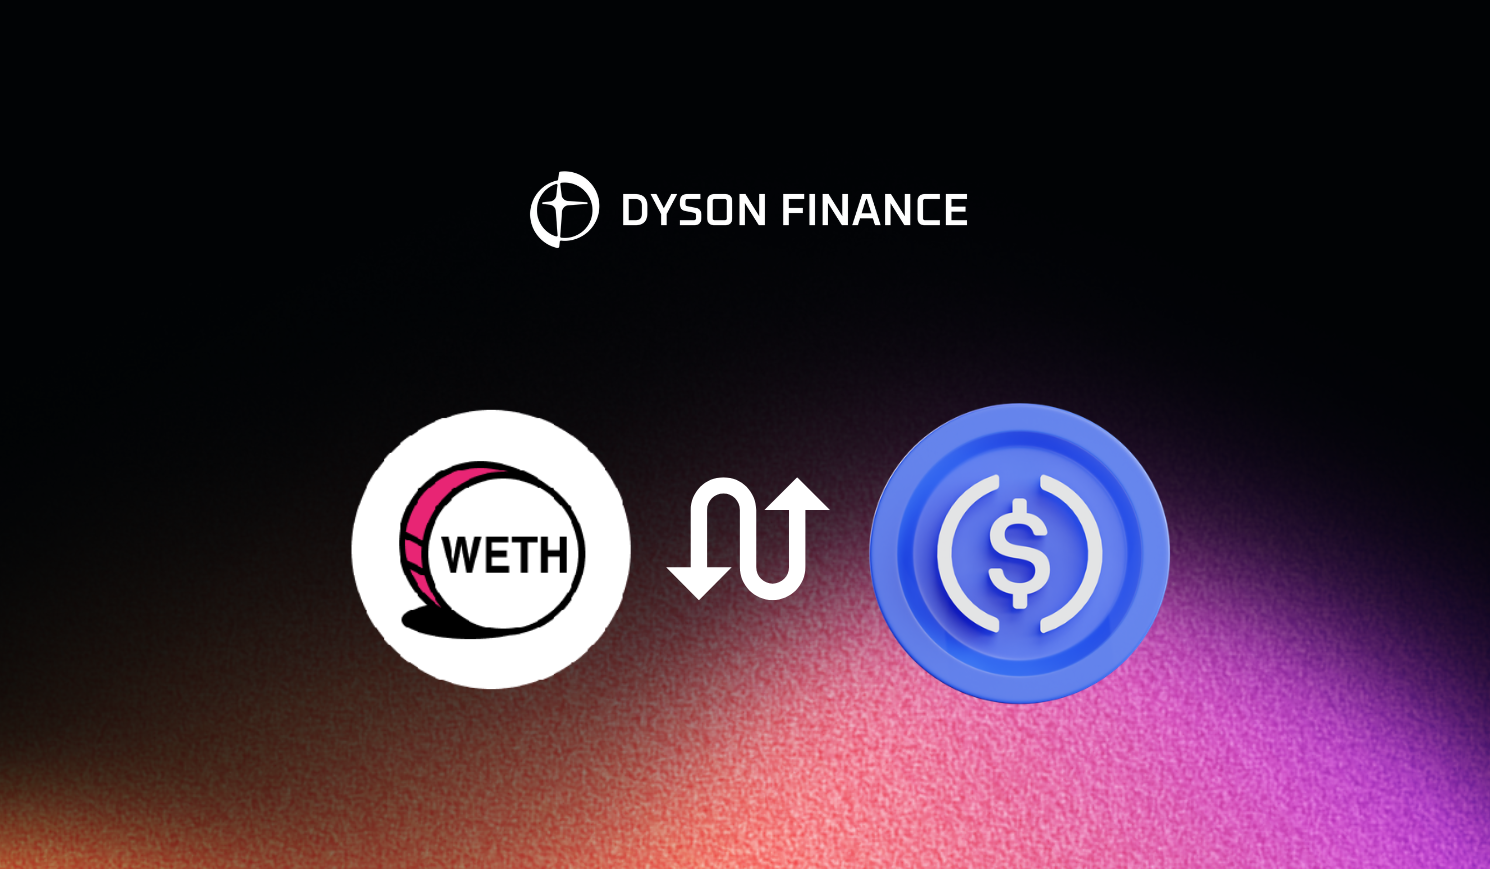
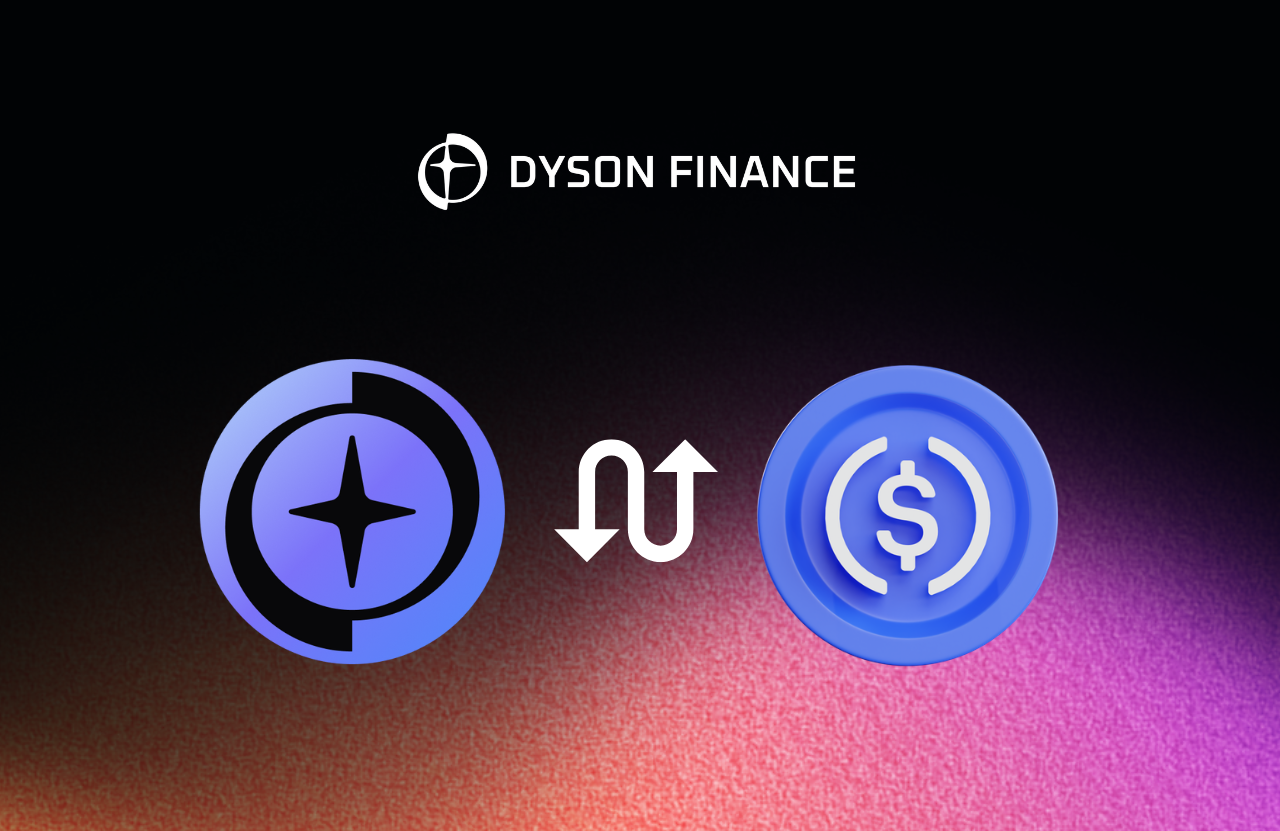
chore: change vault image to dyson finance

diff --git a/src/app/dashboard/components/Card.tsx b/src/app/dashboard/components/Card.tsx
@@ -61,7 +61,7 @@ const Card = ({
         onClose={() => setIsWithdrawModalOpen(false)}
       />
       <figure>
-        <img src={imageUrl} alt="card" className="h-[200px] w-full" />
+        <img src={imageUrl} alt="card" className="h-[240px] w-full" />
       </figure>
       <div className="card-body">
         <StatsSm>
